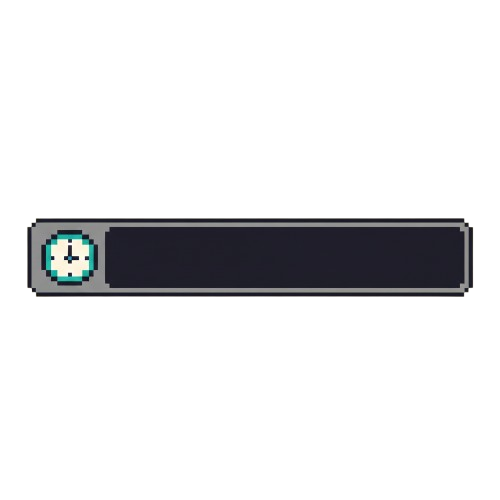
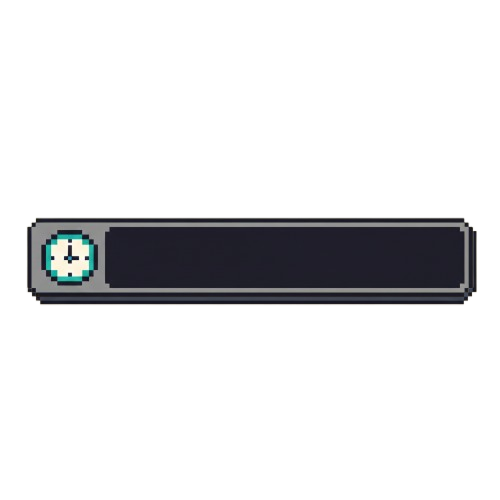
timer 추가

Changed region(s): [[0.06, 0.45, 0.96, 0.63]]

diff --git a/screens/gameScreen.js b/screens/gameScreen.js
@@ -93,6 +93,14 @@ let resultOverlayStartTime = null; // SUCCESS/FAIL 표시 타이밍용
 let pressEnterImg;      // Press "ENTER" 이미지
 let showPressEnter = true
 
+// Timer variables
+let timeBarBase;
+let timeBar;
+let timerWidth;
+const stage2Duration = 10000; // 10 seconds
+let timerStartTime;
+
+
 
 function gameScreenPreload() {
   //press enter to start
@@ -162,6 +170,10 @@ function gameScreenPreload() {
   // ⭐ 결과 에셋 로드 (폴더명 result)
   successImg = loadImage('assets/result/SUCCESS.png');
   failImg    = loadImage('assets/result/FAIL.png');
+
+  // Timer images
+  timeBarBase = loadImage('assets/time/time0.png');
+  timeBar = loadImage('assets/time/time100.png');
 }
 
 function gameScreenSetup() {
@@ -187,19 +199,25 @@ function enterStage2() {
   isStationImgActive = false;
   selectedNpcIndex = -1;
   showPressEnter = false;
+
+  // Initialize timer
+  timerStartTime = millis();
+  if (timeBar) {
+    timerWidth = timeBar.width;
+  }
 }
 
 function gameScreenDraw() {
   background(0);
 
-  // ⭐ sit here 클릭 후 3초가 지나면 2번 NPC 서기 (유저와 같은 키, 이후 걷기 타이밍 시작)
+  // sit here 클릭 후 3초가 지나면 2번 NPC 서기 (유저와 같은 키, 이후 걷기 타이밍 시작)
   if (npc2StandTriggerTime !== null && millis() - npc2StandTriggerTime >= 3000) {
     isNpc2Standing = true;
     npc2StandTriggerTime = null;
     npc2WalkStartTime = millis();   // 서 있는 시점 기록
   }
 
-  // ⭐ 2번 NPC가 서 있고, 2초가 지난 뒤부터 왼쪽으로 걷기 시작 (화면에서 나갈 때까지)
+  // 2번 NPC가 서 있고, 2초가 지난 뒤부터 왼쪽으로 걷기 시작 (화면에서 나갈 때까지)
   if (
     isNpc2Standing &&
     npc2WalkStartTime !== null &&
@@ -432,7 +450,6 @@ function gameScreenDraw() {
     settingBtnH = buttonHeight;
   }
   pop();
-
   // ======= stage2 진입 후 10초가 지나면 역 도착 + stage1으로 전환 =======
   if (stage === 2 && stage2StartTime !== null && !isStationImgActive) {
     if (millis() - stage2StartTime >= 10000) {
@@ -443,6 +460,36 @@ function gameScreenDraw() {
     }
   }
 
+  // Timer rendering in stage 2
+  if (stage === 2 && timeBarBase && timeBar) {
+    // Define new height and calculate new width to maintain aspect ratio
+    const newHeight = 360;
+    const newWidth = timeBarBase.width * (newHeight / timeBarBase.height);
+
+    const elapsedTime = millis() - timerStartTime;
+    const timeRatio = max(0, 1 - (elapsedTime / stage2Duration));
+    
+    // Calculate the shrinking width for both destination and source
+    const shrinkingDestWidth = newWidth * timeRatio;
+    const shrinkingSourceWidth = timeBar.width * timeRatio;
+
+    // Draw timer at top-left
+    const timerX = 20;
+    const timerY = -130;
+    
+    // Draw the resized base bar
+    image(timeBarBase, timerX, timerY, newWidth, newHeight);
+    
+    // Draw the resized and shrinking red bar
+    if (shrinkingDestWidth > 0) {
+      image(timeBar, 
+            timerX, timerY,               // Destination position
+            shrinkingDestWidth, newHeight,  // Destination size
+            0, 0,                         // Source position
+            shrinkingSourceWidth, timeBar.height // Source size
+           );
+    }
+  }
   // ⭐ SUCCESS / FAIL 오버레이 (2초 지연 후 화면 거의 중앙, 살짝 위쪽)
   if (resultOverlayType && resultOverlayStartTime !== null) {
     if (millis() - resultOverlayStartTime >= 2000) {
